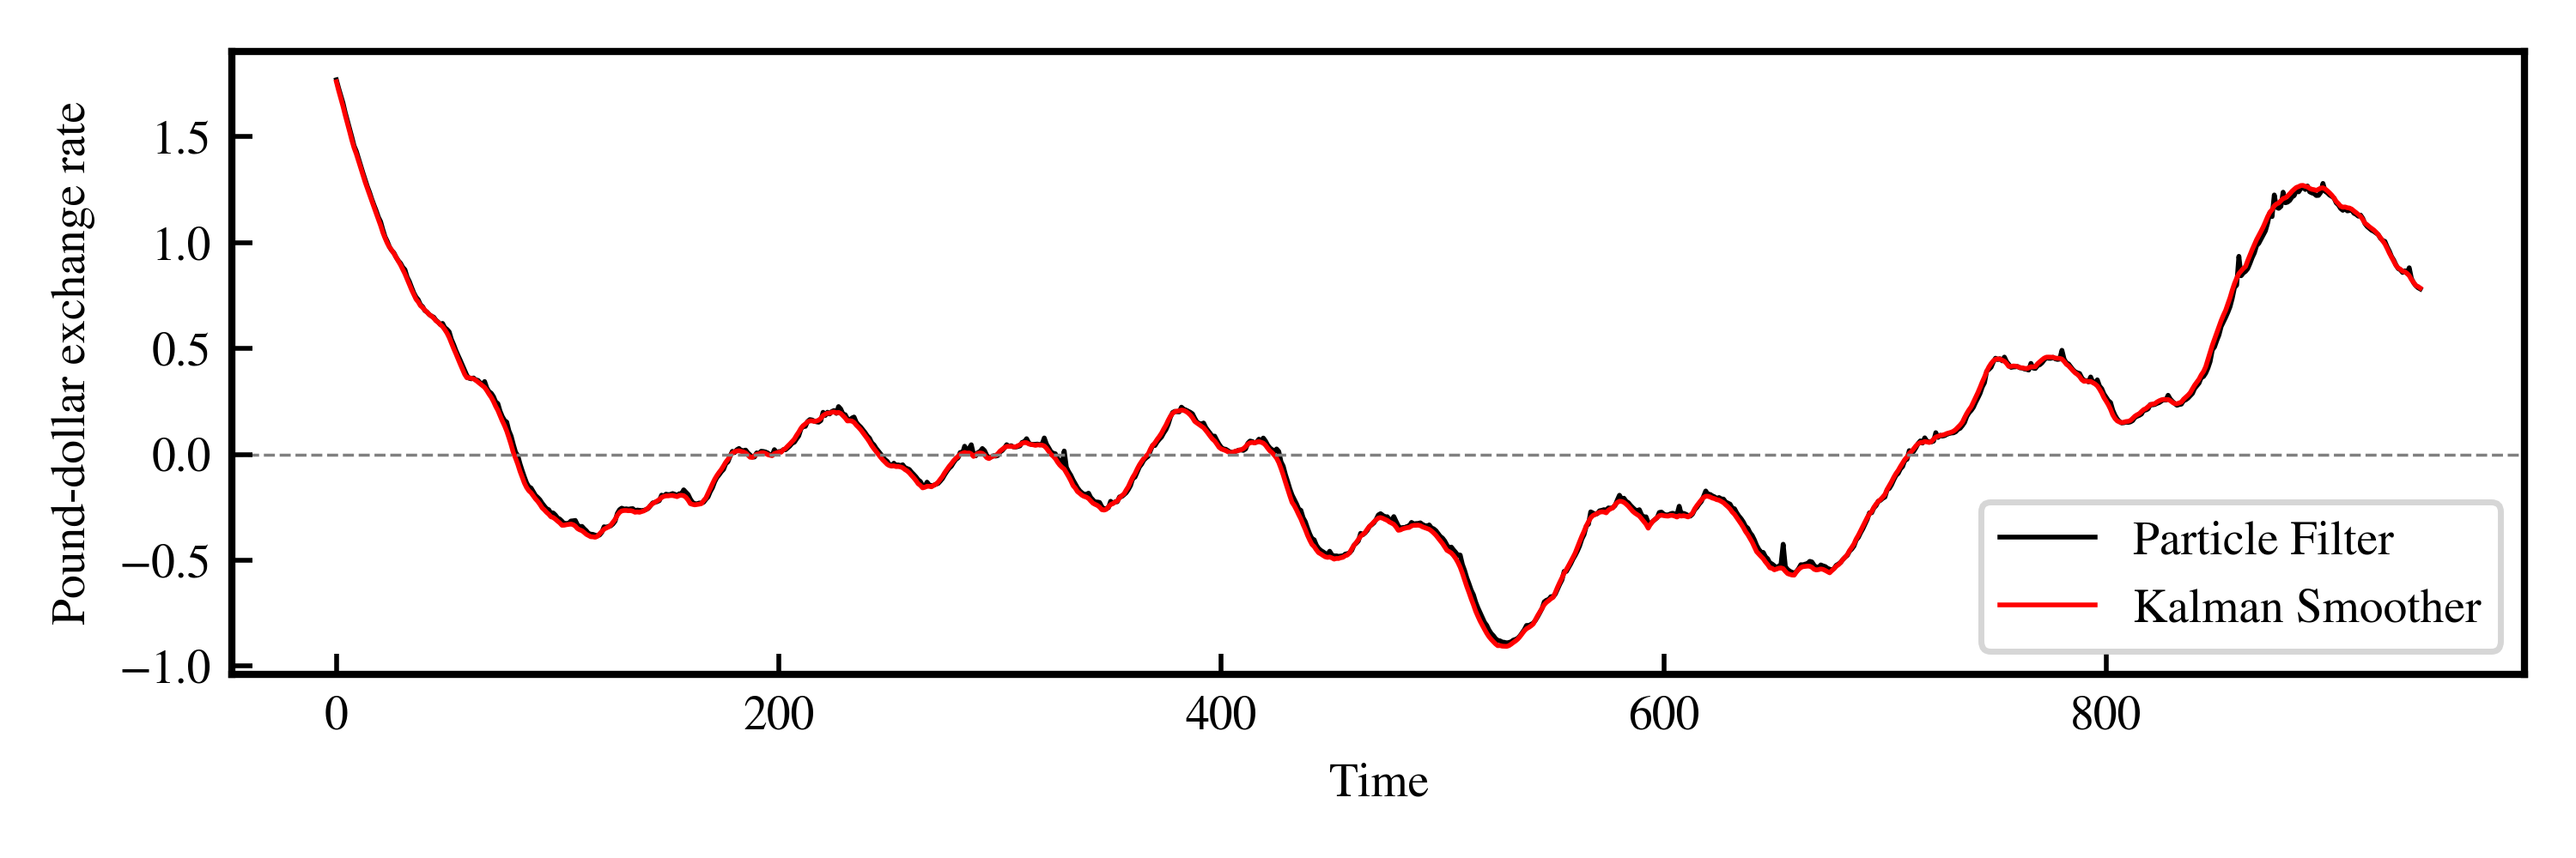
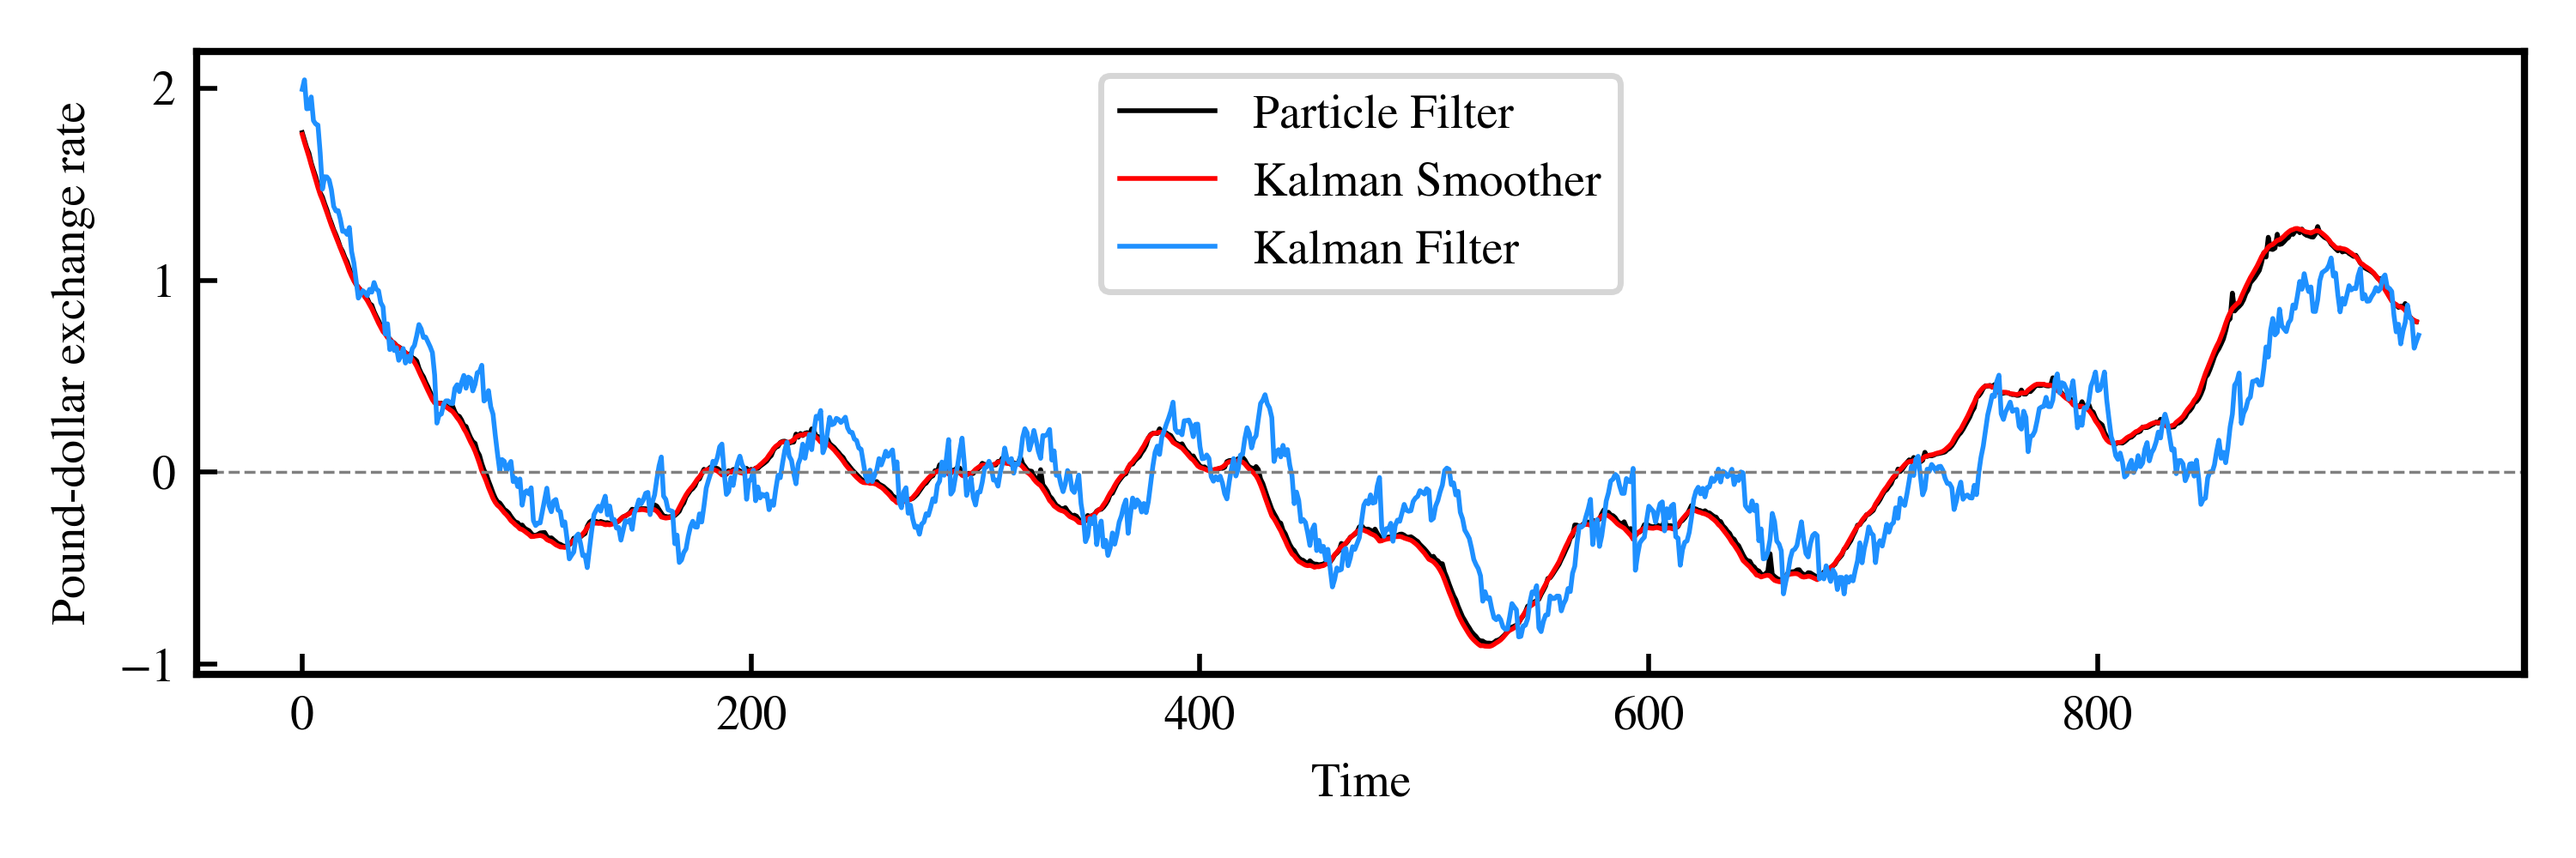
Updates 2 to particle filter

diff --git a/Assignment2/main.py b/Assignment2/main.py
@@ -97,7 +97,7 @@ def DK_book_new():
     print(estimates)
     PF_outputs = KFobj.particle_filter(estimates,df['returns'] - np.mean(df['returns']))
     #plot_pf(PF_outputs)
-    plot_Hts(PF_outputs[0,:],smoothed_signal,estimates)
+    plot_Hts(PF_outputs[0,:],smoothed_signal,filtered_signal,estimates)
     
     
 
@@ -204,7 +204,7 @@ def SP500():
     xi = KFobj.c/(1-KFobj.T)
     filtered_signal = KFobj.iterate(plot=False)[0][1:]
     smoothed_signal = KFobj.state_smooth(plot=False)[0][1:]
-    plot_smoothed(df=df, filtered_alphas=filtered_signal, smoothed_alphas=smoothed_signal, xi=xi, fname='KF_SP500.pdf')
+    #plot_smoothed(df=df, filtered_alphas=filtered_signal, smoothed_alphas=smoothed_signal, xi=xi, fname='KF_SP500.pdf')
 
 def main():
     DK_book_new()

diff --git a/Assignment2/plottinglib.py b/Assignment2/plottinglib.py
@@ -70,12 +70,13 @@ def plot_pf(outputs):
     plt.show()
     
 
-def plot_Hts(signal1, signal2, estimates):
+def plot_Hts(signal1, signal2,signal3, estimates):
     phi, omega, sigma_eta,_ = estimates
     xi = omega / (1-phi)
     fig, ax1 = plt.subplots(1, figsize=(6,2), sharex=True)
     ax1.plot(signal1,lw=0.8,color='black',label='Particle Filter')
     ax1.plot(signal2-xi,lw=0.8,color='red',label='Kalman Smoother')
+    ax1.plot(signal3-xi,lw=0.8,color='dodgerblue',label='Kalman Filter')
     plt.axhline(0,ls='--',color='grey',lw=0.5)
     ax1.set_ylabel('Pound-dollar exchange rate')
     ax1.set_xlabel('Time')
